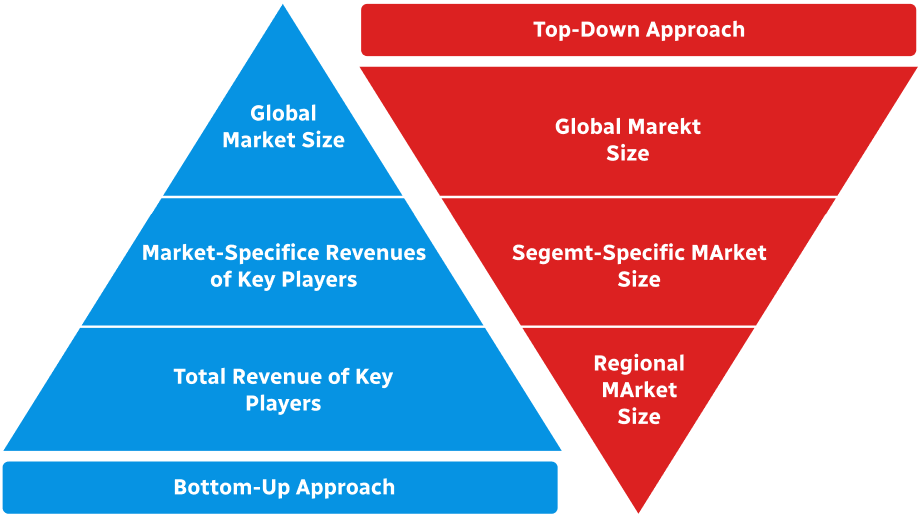
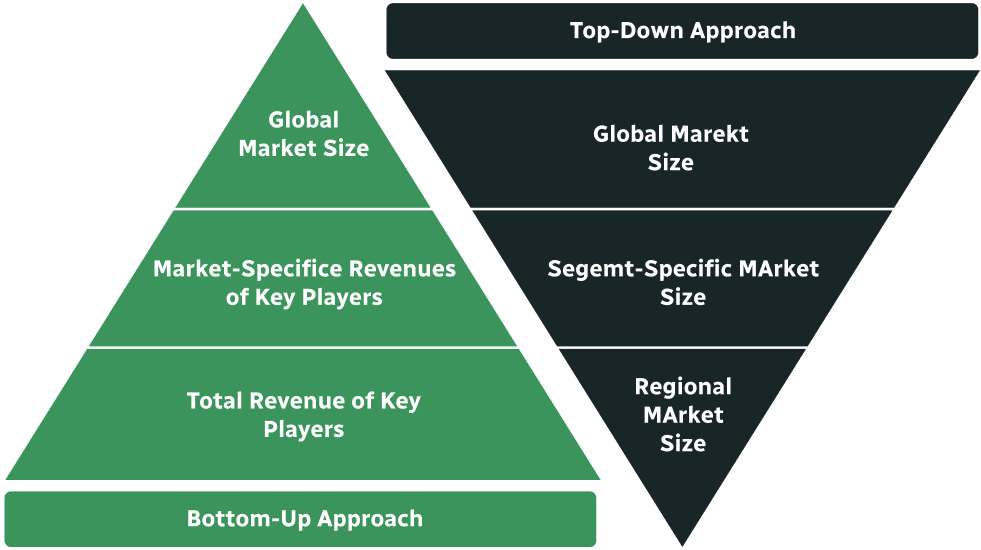
methodology page theme change

diff --git a/components/report/components/MethodologyTabContent.js b/components/report/components/MethodologyTabContent.js
@@ -17,28 +17,28 @@ import {
 const MethodologyTabContent = () => {
   const sections = [
     {
-      color: "primary",
+      color: "#182628",
       content:
         "Involves using different sources of information in order to increase the validity of a study",
-      icon: <Factory className="text-primary" />,
+      icon: <Factory className="text-[#182628]" />,
     },
     {
-      color: "red-500",
+      color: "#65CCB8",
       content:
         "These sources are likely to be stakeholders in a program - participants, other researchers, program staff, other community members, and so on.",
-      icon: <Users className="text-red-500" />,
+      icon: <Users className="text-[#65CCB8]" />,
     },
     {
-      color: "blue-500",
+      color: "#3B945B",
       content:
         "Then we put all data in single framework & apply various statistical tools to find out the dynamic on the market.",
-      icon: <FileBarChart2 className="text-info" />,
+      icon: <FileBarChart2 className="text-[#3B945B]" />,
     },
     {
-      color: "secondary",
+      color: "#57BA98",
       content:
         "During the analysis stage, feedback from the stakeholder groups would be compared to determine areas of agreement as well as areas of divergence",
-      icon: <ShieldCheck className="text-secondary" />,
+      icon: <ShieldCheck className="text-[#57BA98]" />,
     },
   ];
 
@@ -98,9 +98,9 @@ const MethodologyTabContent = () => {
           </h2>
         </header>
         <section className="grid gap-5 my-5 md:grid-cols-2">
-          <div className="text-red-500">
+          <div className="text-primary">
             <div className="flex items-center gap-2 font-bold">
-              <div className="grid w-10 h-10 text-white bg-red-500 rounded-full place-items-center">
+              <div className="grid w-10 h-10 text-white rounded-full bg-primary place-items-center">
                 <Lightbulb className="font-extrabold text-white" />
               </div>
               <p>Primary Research</p>
@@ -113,9 +113,9 @@ const MethodologyTabContent = () => {
               <li>Opinion Leaders</li>
             </ul>
           </div>
-          <div className="text-info">
+          <div className="text-neutral">
             <div className="flex items-center gap-2 font-bold">
-              <div className="grid w-10 h-10 text-white bg-blue-500 rounded-full place-items-center">
+              <div className="grid w-10 h-10 text-white rounded-full bg-neutral place-items-center">
                 <Settings className="font-extrabold text-white" />
               </div>
               <p>Secondary Research</p>
@@ -152,6 +152,9 @@ const MethodologyTabContent = () => {
             <div key={index} className="flex items-center gap-2">
               <div
                 className={`grid border-8 rounded-full w-14 min-w-14 h-14 place-items-center border-${section.color}`}
+                style={{
+                  borderColor: section.color,
+                }}
               >
                 {section.icon} {/* Render the icon */}
               </div>
